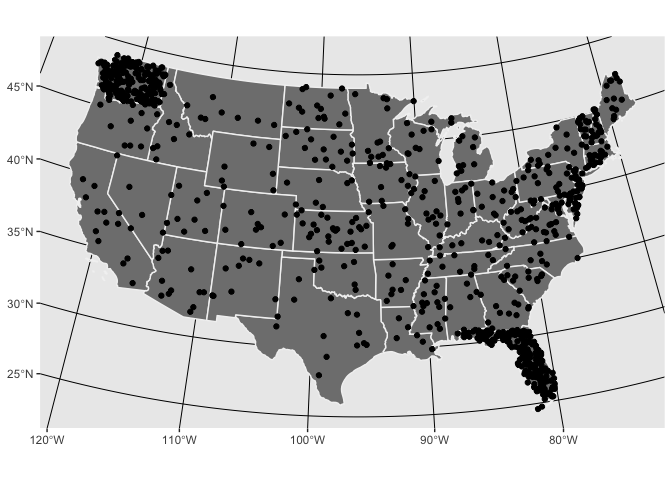
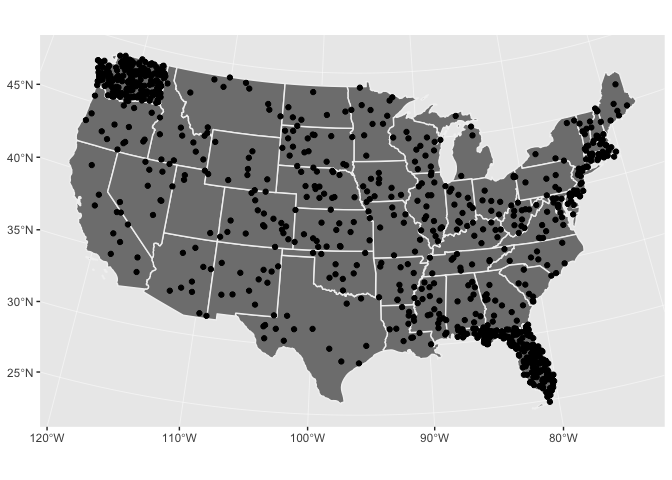
add pointilist version

diff --git a/us-2016-dot-density/us-2016-dot-density.md b/us-2016-dot-density/us-2016-dot-density.md
@@ -12,7 +12,7 @@ In any case, while the 2016 election is a little bit passé, figuring out how to
 ------------------------------------------------------------------------
 
 Technical details
-=================
+-----------------
 
 The data on votes at the county level are from Michael W. Kearney, at this [GitHub repo](https://github.com/mkearney/presidential_election_county_results_2016). There are no county level results for Alaska and Hawaii, so I will only focus on the lower 48 states. Corresponding shapefiles are from the [USAboundaries](https://cran.r-project.org/package=USAboundaries) package.
 
@@ -20,15 +20,15 @@ The basis for generating the dots in the map is the `st_sample()` function in [s
 
 First, the version of `st_sample()` I am using[2] returns raw points without aggregating them to the geometry they were sampled from. The input data look like this:
 
-    ## Simple feature collection with 9322 features and 4 fields
+    ## Simple feature collection with 9324 features and 4 fields
     ## geometry type:  MULTIPOLYGON
     ## dimension:      XY
     ## bbox:           xmin: -2356114 ymin: -1338125 xmax: 2258154 ymax: 1558935
     ## epsg (SRID):    102003
     ## proj4string:    +proj=aea +lat_1=29.5 +lat_2=45.5 +lat_0=37.5 +lon_0=-96 +x_0=0 +y_0=0 +datum=NAD83 +units=m +no_defs
-    ## # A tibble: 9,322 x 5
+    ## # A tibble: 9,324 x 5
     ##     fips name       cand            votes                         geometry
-    ##    <dbl> <chr>      <fct>           <int>               <MULTIPOLYGON [m]>
+    ##    <dbl> <chr>      <fct>           <dbl>               <MULTIPOLYGON [m]>
     ##  1 39131 Pike       Donald Trump     7902 (((1078953 262165.8, 1127524 26…
     ##  2 39131 Pike       Hillary Clinton  3539 (((1078953 262165.8, 1127524 26…
     ##  3 39131 Pike       Other             424 (((1078953 262165.8, 1127524 26…
@@ -39,7 +39,7 @@ First, the version of `st_sample()` I am using[2] returns raw points without agg
     ##  8 55035 Eau Claire Hillary Clinton 27340 (((343111 830755.5, 400496.3 83…
     ##  9 55035 Eau Claire Other            3512 (((343111 830755.5, 400496.3 83…
     ## 10 48259 Kendall    Donald Trump    15700 (((-280936 -817746.3, -248977.9…
-    ## # ... with 9,312 more rows
+    ## # ... with 9,314 more rows
 
 Meanwhile `st_sample(county_cand$geometry[1:2])` just returns a bunch of points rather than a single MULTIPOINT feature for each input county, e.g.:
 
@@ -154,7 +154,14 @@ Close enough. For good measure, here is the rounding error for different votes p
 
 ![](round-error-vs-dot-resolution.png)
 
+*Update 2018-06-22: I learned while making the pointilist version below that a general solution for this kind of rounding issue is to use stochastic rounding instead of regular, deterministic, rounding. A function implementing this in R is on the GitHub page for this post, with the other code.*
+
 Code for making do density maps with R and for the 2016 election map in this post is [on GitHub here](https://github.com/andybega/mireg-blogs/tree/master/us-2016-dot-density).
+
+Addendum: pointilist map
+------------------------
+
+Lastly, here is a pointilist version in the style of [Rankin's French kissing map](http://www.radicalcartography.net/index.html?frenchkisses). This does away with the "each dot is X people" mapping. Instead, the number of dots for a candidate in a county are based on their vote share and the county area. Thus the point density overall is more or less uniform over space.
 
 [1] Wyoming, Vermont, DC, North Dakota, South Dakota, Delaware, Rhode Island, Montana, Idaho.
 

diff --git a/us-2016-dot-density/README.md b/us-2016-dot-density/README.md
@@ -70,6 +70,26 @@ ggplot() +
 
 ![](README_files/figure-markdown_github/unnamed-chunk-1-1.png)
 
+In my first go at this, I had a problem with rounding where counties with voters below the "X voters per dot" threshold were rounded to 0 dots. So rural or rather small population counties were severely underrepresented. The solution is to use stochastic rounding, which this function implements:
+
+``` r
+# adapted from http://coleoguy.blogspot.com.ee/2016/04/stochasticprobabilistic-rounding.html
+stochastic_round = function(x){
+  ## extract the decimal portion
+  q = abs(x - trunc(x))
+  
+  ## draw a value 0 or 1 with probability
+  ## based on how close we already are
+  adj = rbinom(n = length(x), size = 1, prob = q)
+  
+  ## make it negative if x is
+  adj <- ifelse(x < 0, adj * -1, adj)
+  
+  ## return our new value
+  trunc(x) + adj
+}
+```
+
 Other dot resolutions
 ---------------------
 
@@ -80,3 +100,10 @@ With 10k votes per dot the county boundaries for places like LA are less promine
 Doesn't look like the county level data works well with *more* dots, here a dot for each 1,000 votes:
 
 ![](us-2016-dot-density-fine.png)
+
+Pointilist dot map
+------------------
+
+Lastly, here is a pointilist version in the style of [Rankin's French kissing map](http://www.radicalcartography.net/index.html?frenchkisses). This does away with the "each dot is X people" mapping. Instead, the number of dots for a candidate in a county are based on their vote share and the county area. Thus the point density overall is more or less uniform over space.
+
+![](us-2016-pointilist-map.png)
